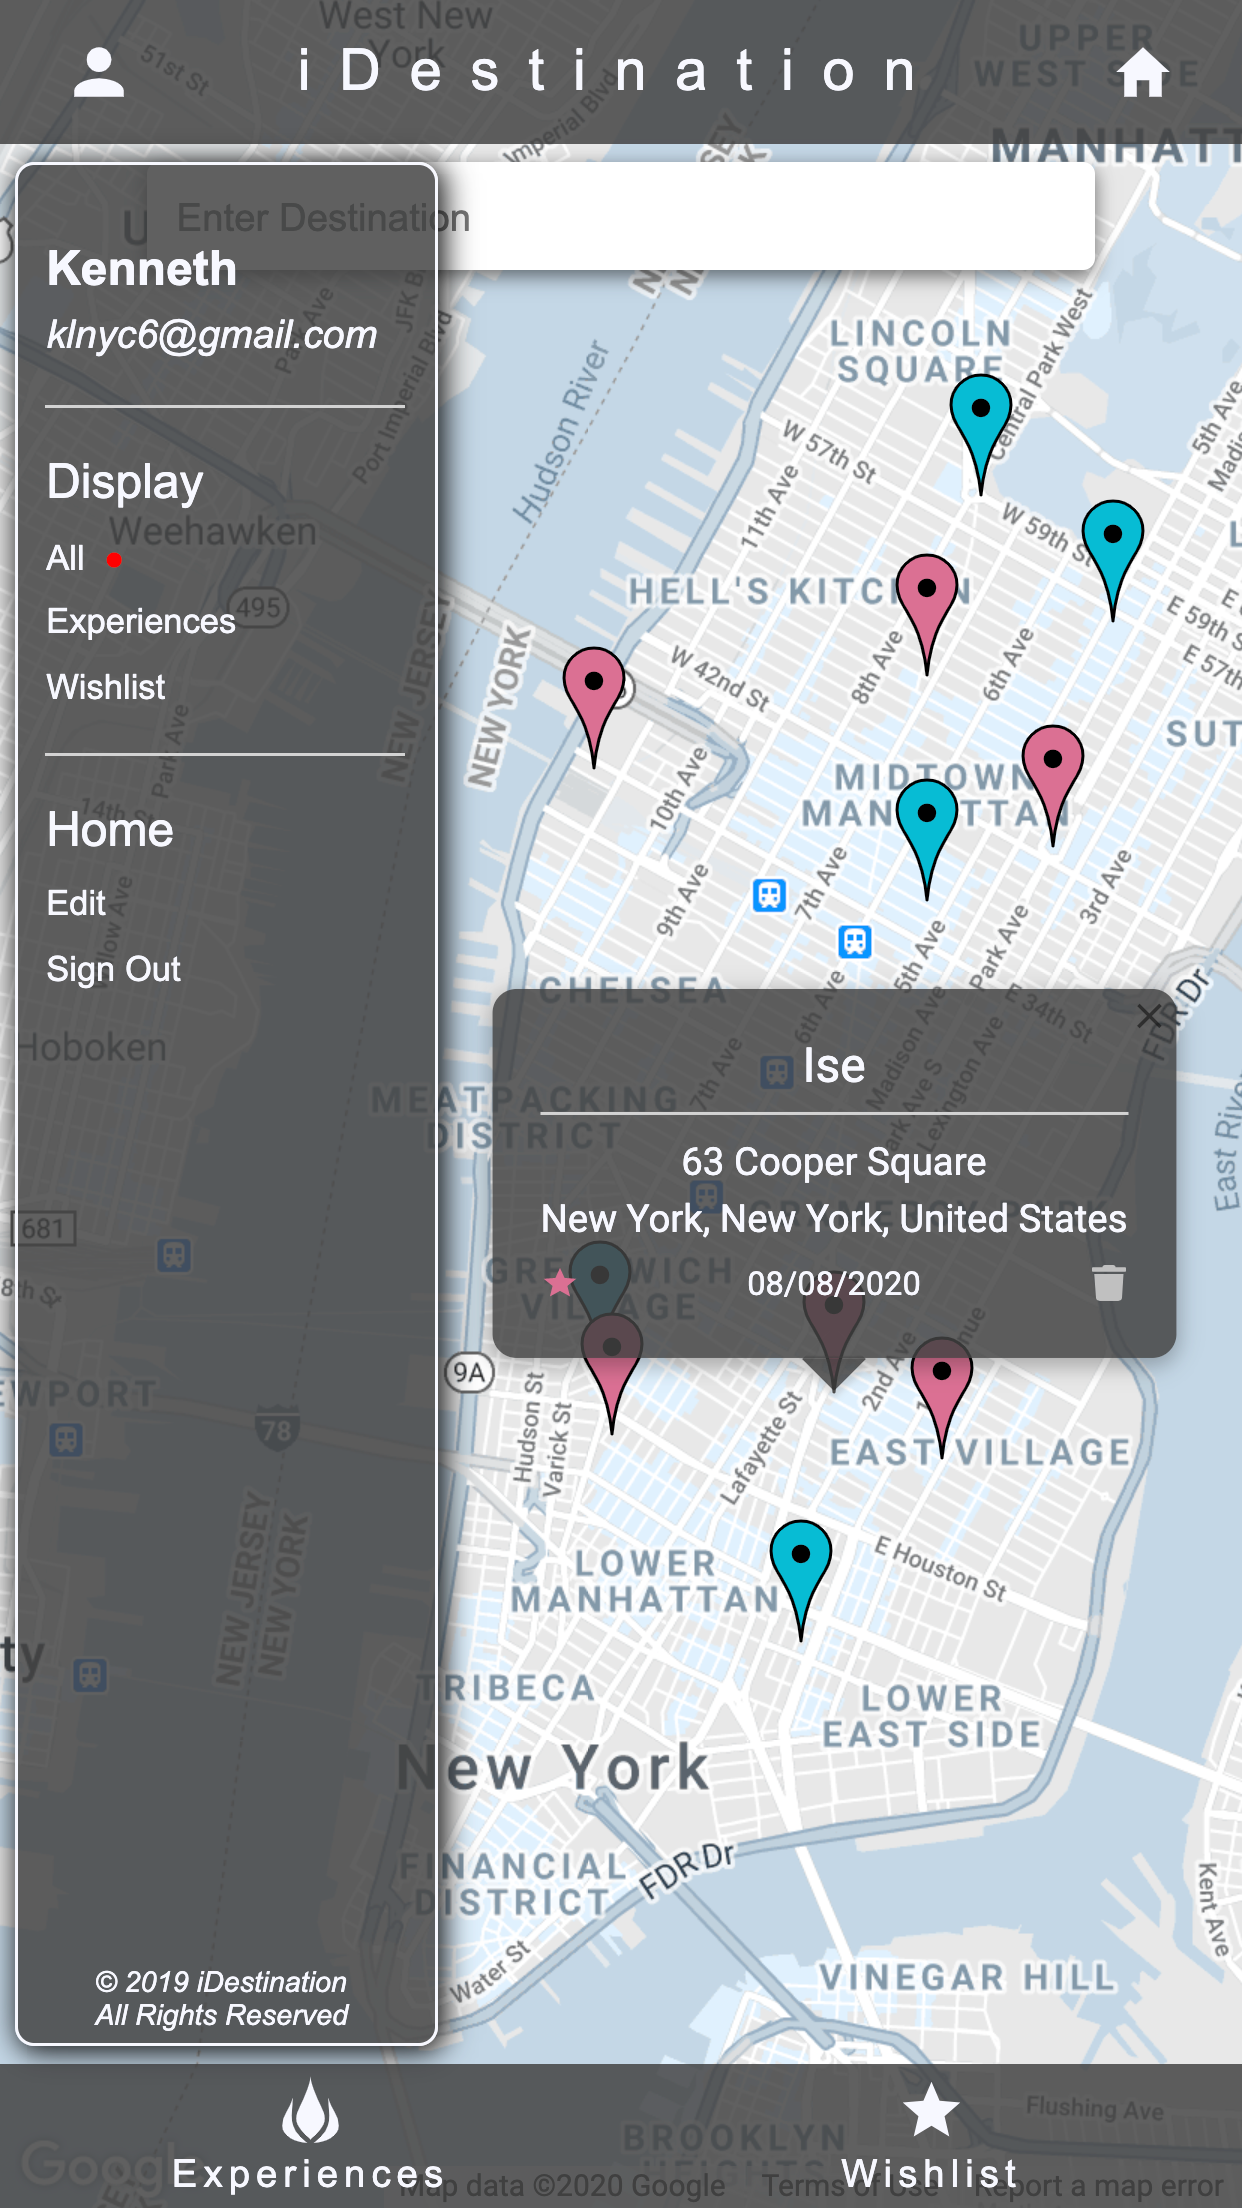
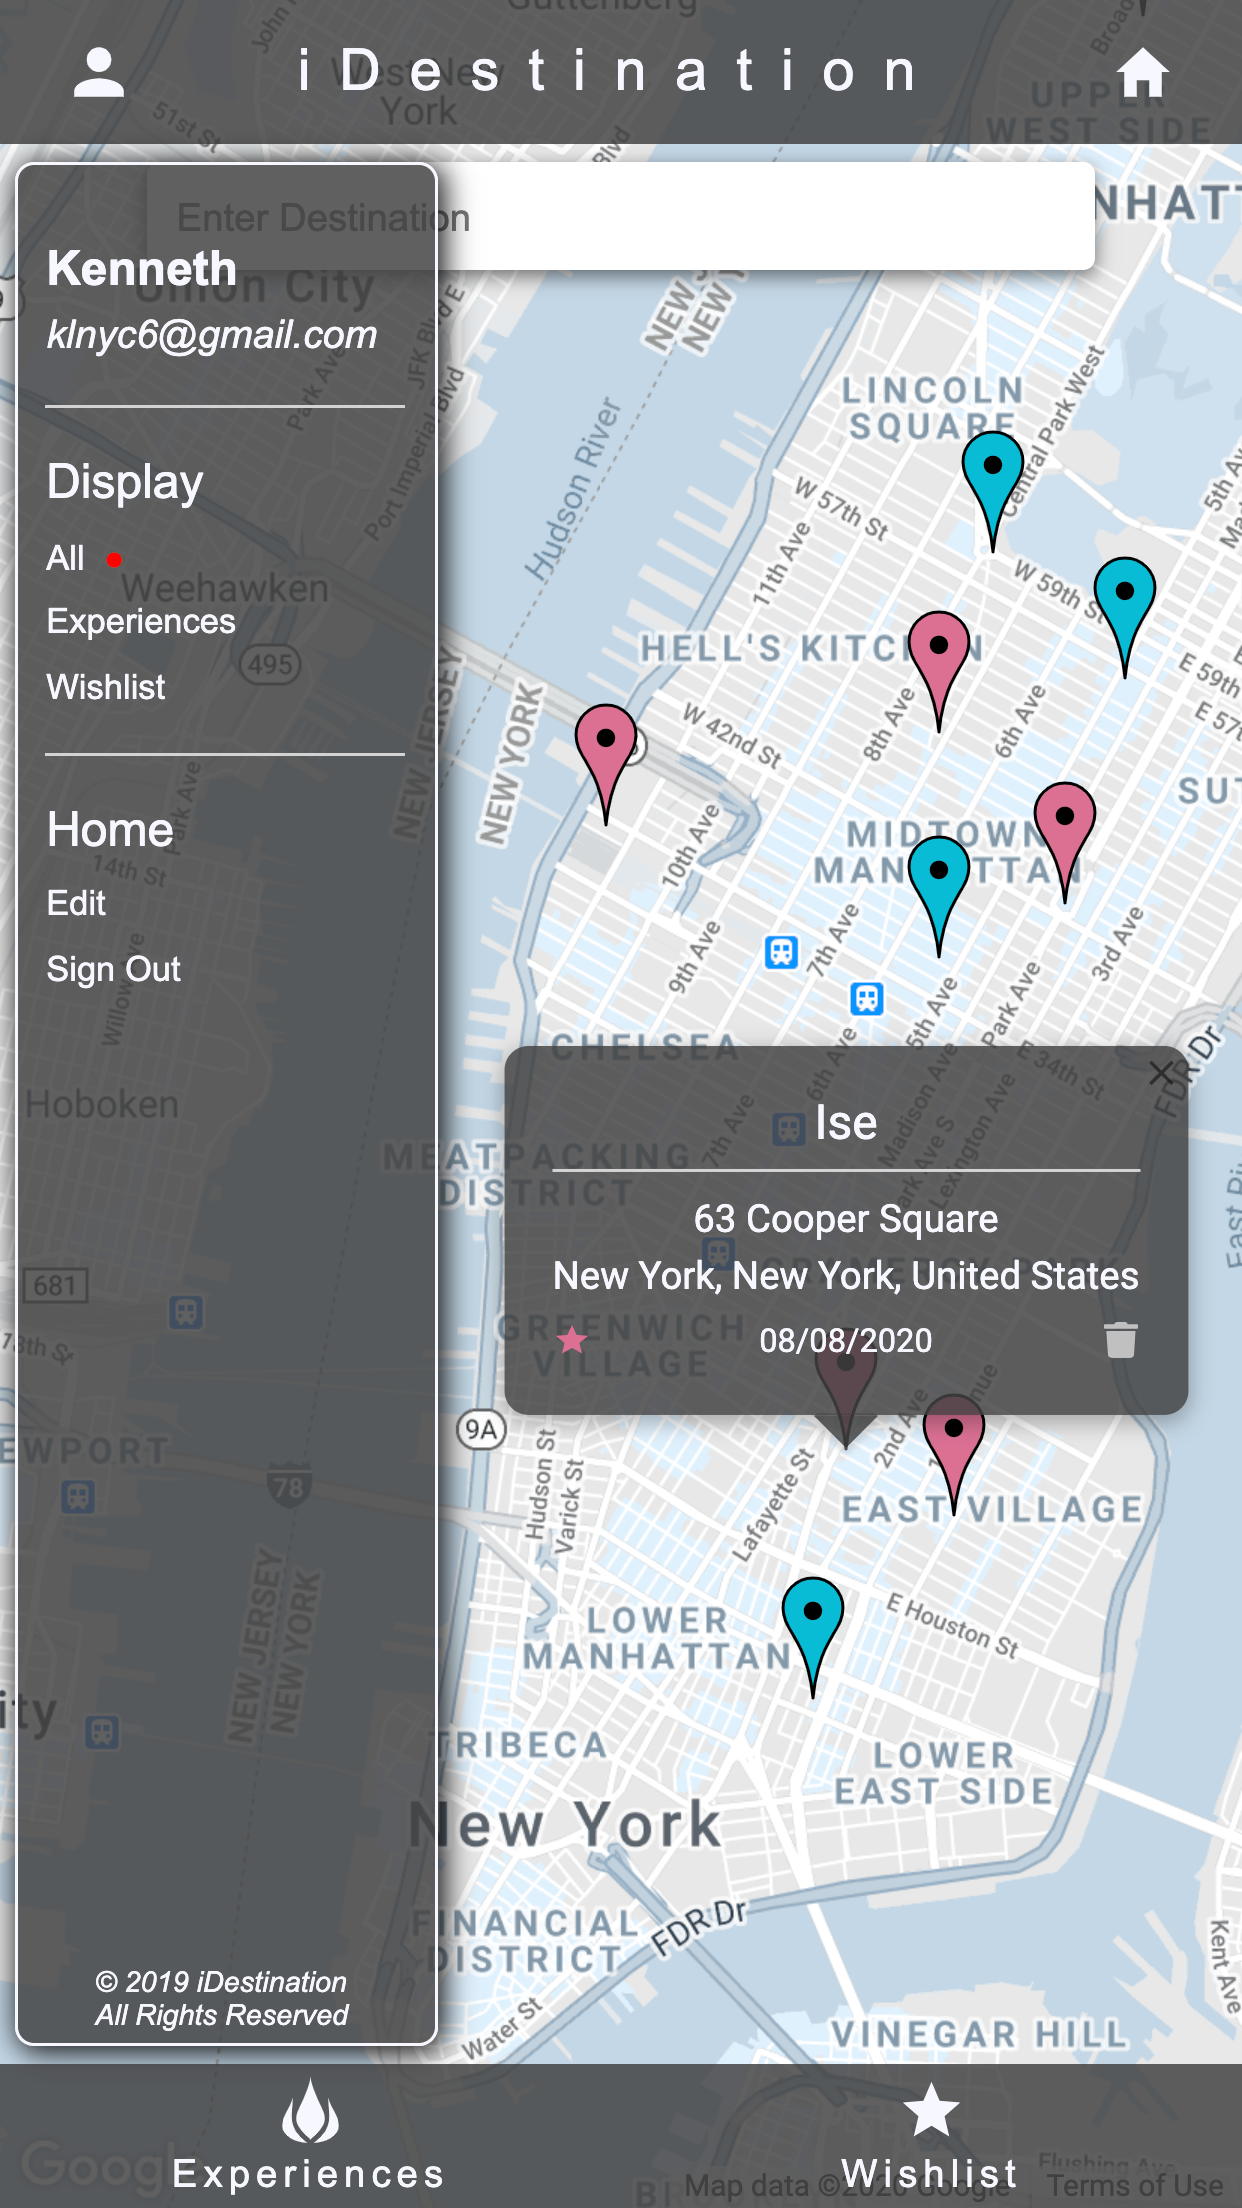
removed extra markers in screenshot

diff --git a/public/styles.css b/public/styles.css
@@ -539,13 +539,13 @@ body {
 @media only screen and (max-width: 600px) {
     .main { scroll-snap-type: none }
     .home, .header-home { scroll-snap-align: none }
-    
+
     .home-description-title br {
         display: initial;
     }
 
     .home-information {
-        height: 100%;
+        height: auto;
     }
 
     .home-information-content {
